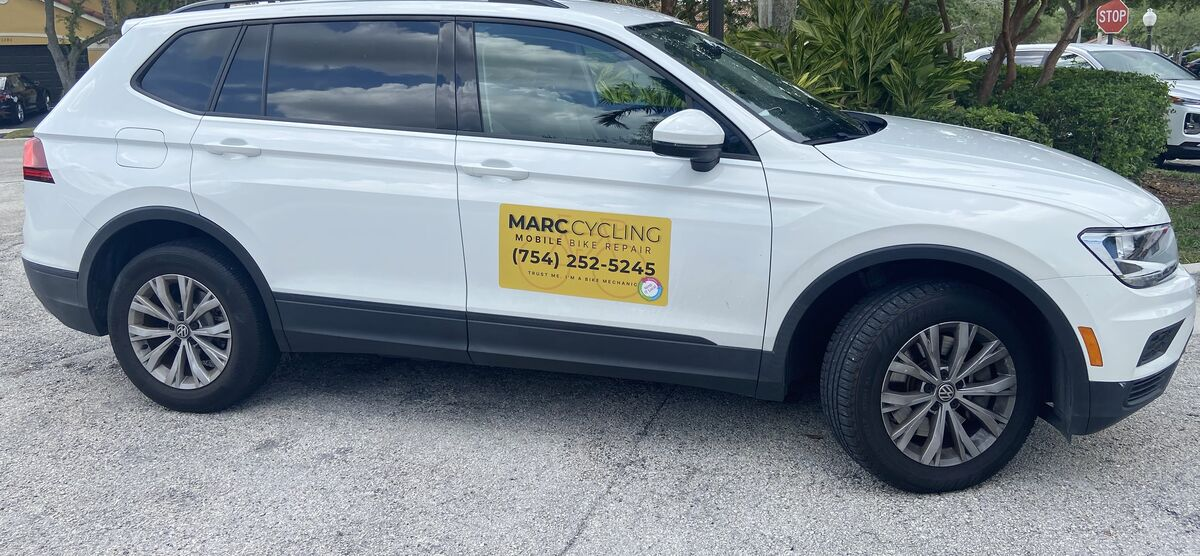
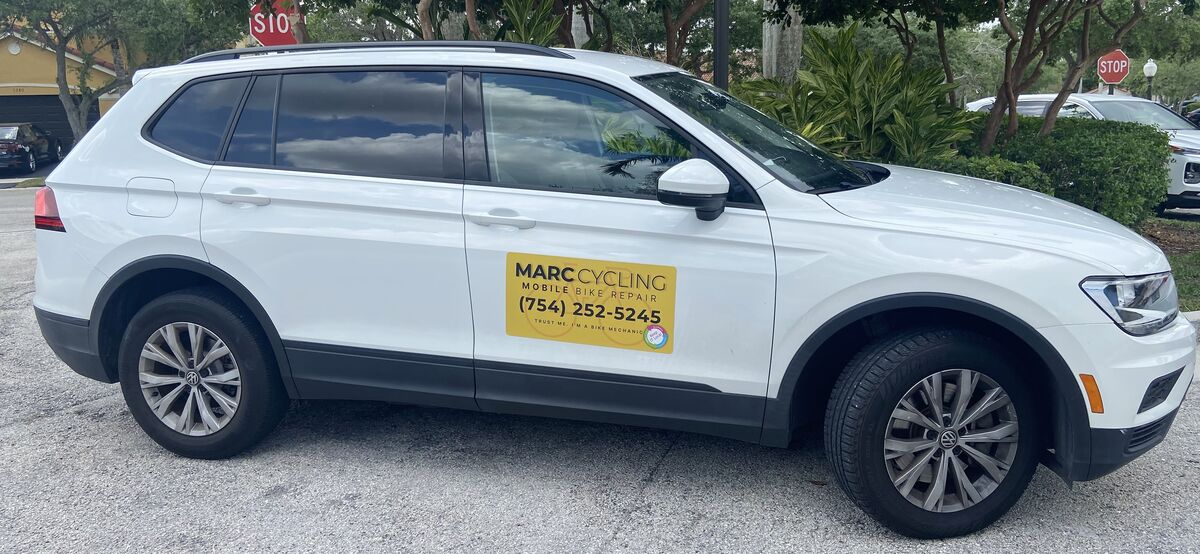
Recorte do veiculo corrigido: o teto estava cortado
O recorte anterior comecava em y=420 de 2268, ou seja 0,185 da altura, e
o teto do carro comeca em 0,17. Cortava o teto por volta de 37 pixels.
Foi erro de metodo: estimei a posicao em vez de medir, o mesmo erro que
ja tinha cometido na foto da oficina.

Agora medido sobre a imagem com grade de referencia: teto em 0,17 e base
dos pneus em 0,88. O recorte vai de 0,11 a 0,93, o que deixa o carro
inteiro com folga em cima e embaixo, e centralizado na vertical.

4032x1860+0+250, servido em 1200x554. A foto em si nao foi alterada,
apenas o enquadramento. Original intacto em img/source/vehicle-original
.jpg.

Claude-Session: https://claude.ai/code/session_01YPz1gfhoL27RtYJqJ9HuN8

diff --git a/index.html b/index.html
@@ -917,7 +917,7 @@ table.cmp{width:100%; border-collapse:collapse}
     </div>
 
     <figure class="veh">
-      <img src="img/vehicle.jpg" width="1200" height="556" loading="lazy" decoding="async"
+      <img src="img/vehicle.jpg" width="1200" height="554" loading="lazy" decoding="async"
            alt="The Marc Cycling vehicle parked on a driveway, a white VW Taos with the shop magnet and phone number on the door.">
       <figcaption class="veh-txt">
         <b>This is what shows up</b>
